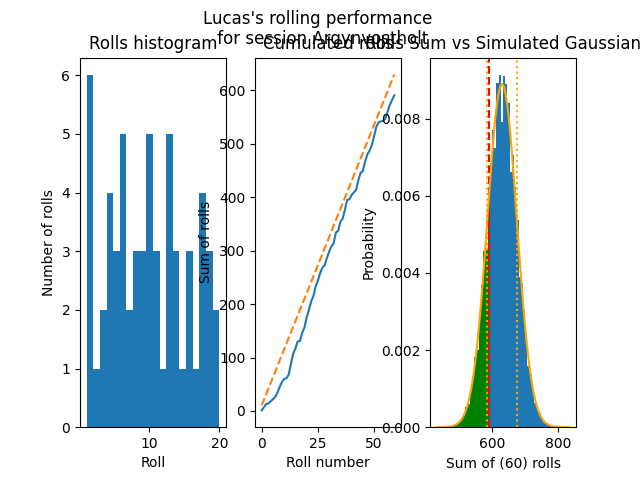
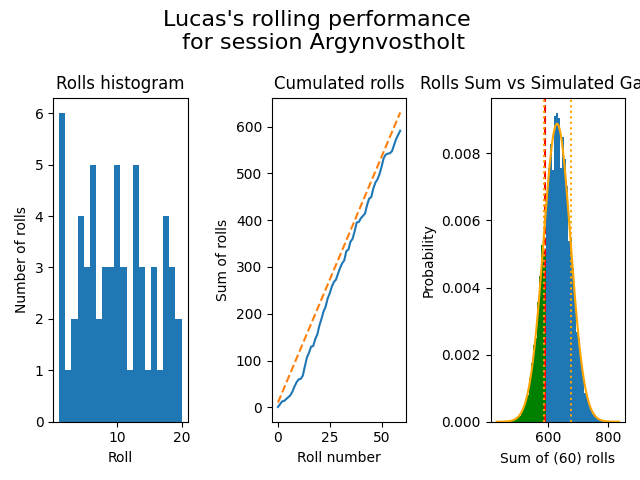
Updated plotting

diff --git a/main.py b/main.py
@@ -11,7 +11,9 @@ for playername in players:
         playerRolls.plotRolls(session,axis = axes[0])
         playerRolls.plotCumul(session,axis = axes[1])
         playerRolls.plotSumm (session,axis = axes[2])
-        fig.suptitle(f"{playername}'s rolling performance \n for session {session}")
+        fig.suptitle(f"{playername}'s rolling performance \n for session {session}",
+                     fontsize = 16)
+        plt.tight_layout()
         plt.savefig(f"pngs/{playername}.png")
         plt.show()
 
